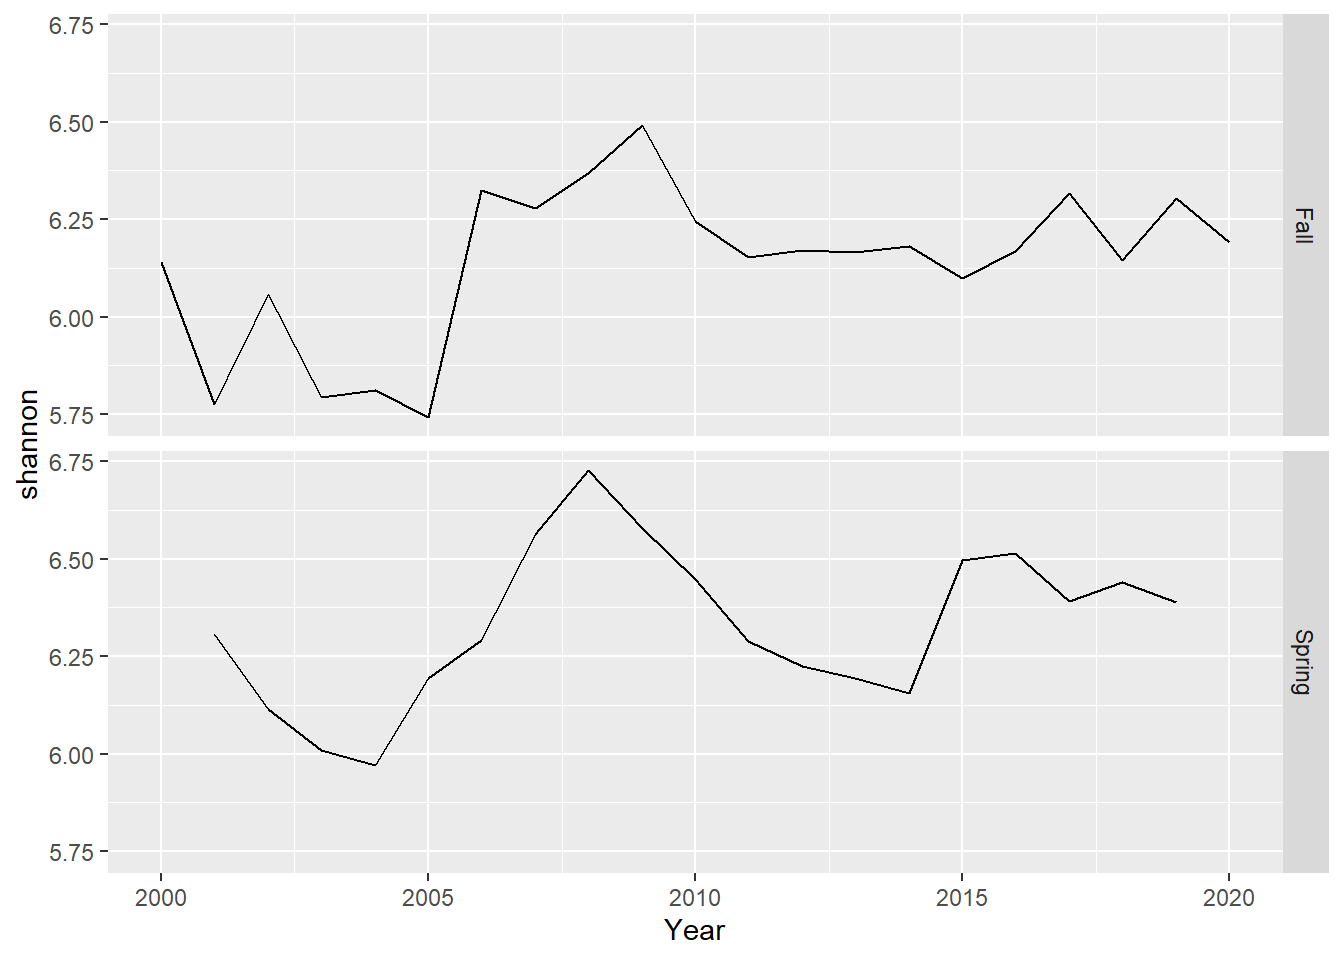
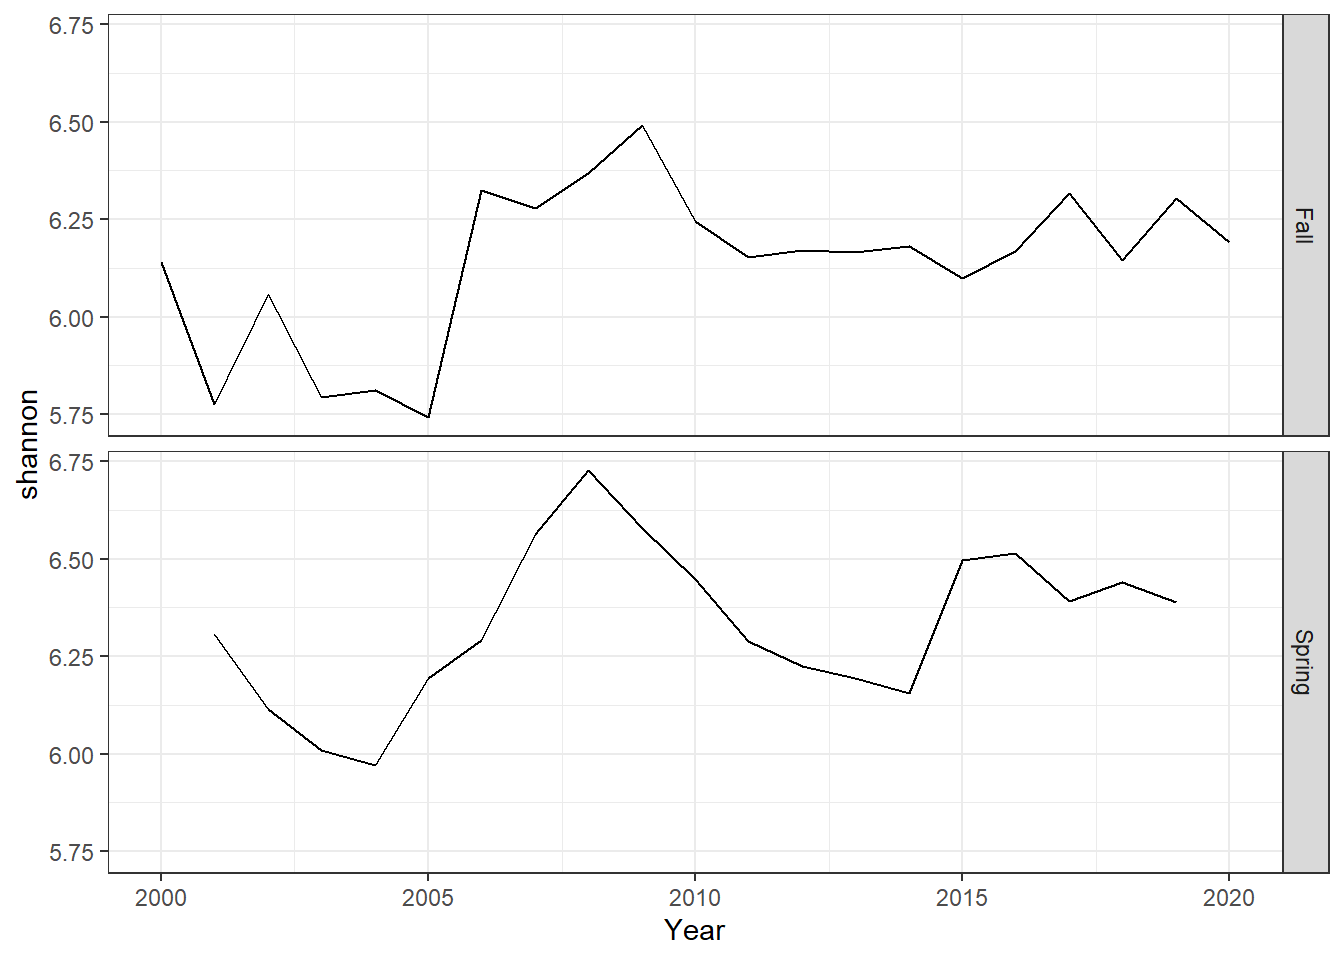
+ changes to plots

diff --git a/fishery_landings.html b/fishery_landings.html
@@ -416,18 +416,20 @@ div.tocify {
 <h2>Diveristy metrics</h2>
 <div id="species-richness" class="section level3">
 <h3>Species richness</h3>
-<p><img src="fishery_landings_files/figure-html/unnamed-chunk-5-1.png" width="672" /></p>
+<p><img src="fishery_landings_files/figure-html/unnamed-chunk-5-1.png" width="672" /><img src="fishery_landings_files/figure-html/unnamed-chunk-5-2.png" width="672" /></p>
 </div>
 <div id="shannon-weiner-diversity" class="section level3">
 <h3>Shannon-Weiner diversity</h3>
-<p>Based on weight not abundance of species <img src="fishery_landings_files/figure-html/unnamed-chunk-6-1.png" width="672" /></p>
+<p>Based on weight not abundance of species <img src="fishery_landings_files/figure-html/unnamed-chunk-6-1.png" width="672" /><img src="fishery_landings_files/figure-html/unnamed-chunk-6-2.png" width="672" /></p>
 </div>
 <div id="simpsons-diversity-and-evenness" class="section level3">
 <h3>Simpson’s diversity and evenness</h3>
-<p><img src="fishery_landings_files/figure-html/unnamed-chunk-7-1.png" width="672" /><img src="fishery_landings_files/figure-html/unnamed-chunk-7-2.png" width="672" /></p>
+<p><img src="fishery_landings_files/figure-html/unnamed-chunk-7-1.png" width="672" /><img src="fishery_landings_files/figure-html/unnamed-chunk-7-2.png" width="672" /><img src="fishery_landings_files/figure-html/unnamed-chunk-7-3.png" width="672" /></p>
 </div>
 <div id="average-taxinomic-distinctness" class="section level3">
 <h3>Average taxinomic distinctness</h3>
+<pre><code>## Warning: package &#39;taxize&#39; was built under R version 4.1.2</code></pre>
+<pre><code>## Warning: package &#39;purrr&#39; was built under R version 4.1.2</code></pre>
 <pre><code>## ==  42 queries  ==============
 ## v  Found:  Gadus morhua
 ## v  Found:  Cancer irroratus
@@ -476,15 +478,20 @@ div.tocify {
 ## * Total: 42 
 ## * Found: 42 
 ## * Not Found: 0</code></pre>
+<p><img src="fishery_landings_files/figure-html/unnamed-chunk-8-1.png" width="672" /></p>
 <p>Combo plot</p>
 <pre class="r"><code>library(reshape2)
-library(gridExtra)
-
-all_metrics&lt;-full_join(richness,shannon, by=&quot;year&quot;)%&gt;%
+library(gridExtra)</code></pre>
+<pre><code>## 
+## Attaching package: &#39;gridExtra&#39;</code></pre>
+<pre><code>## The following object is masked from &#39;package:dplyr&#39;:
+## 
+##     combine</code></pre>
+<pre class="r"><code>all_metrics&lt;-full_join(richness,shannon, by=&quot;year&quot;)%&gt;%
   full_join(simpson)%&gt;%
   full_join(d)</code></pre>
-<pre><code>## Joining, by = &quot;year&quot;
-## Joining, by = &quot;year&quot;</code></pre>
+<pre><code>## Joining, by = &quot;year&quot;</code></pre>
+<pre><code>## Joining, by = &quot;year&quot;</code></pre>
 <pre class="r"><code>all_melt&lt;-melt(all_metrics, id=&quot;year&quot;)
 
 ggplot()+geom_line(data=all_melt, aes(year,value))+facet_grid(rows = vars(variable), scales=&quot;free&quot;)+theme_bw()</code></pre>

diff --git a/biodiversity.html b/biodiversity.html
@@ -387,6 +387,7 @@ div.tocify {
 <div id="average-taxinomic-distinctness" class="section level3">
 <h3>Average taxinomic distinctness</h3>
 <pre><code>## Warning: package &#39;taxize&#39; was built under R version 4.1.2</code></pre>
+<pre><code>## Warning: package &#39;purrr&#39; was built under R version 4.1.2</code></pre>
 <pre><code>## ==  142 queries  =============
 ## v  Found:  Alosa pseudoharengus
 ## v  Found:  Squalus acanthias
